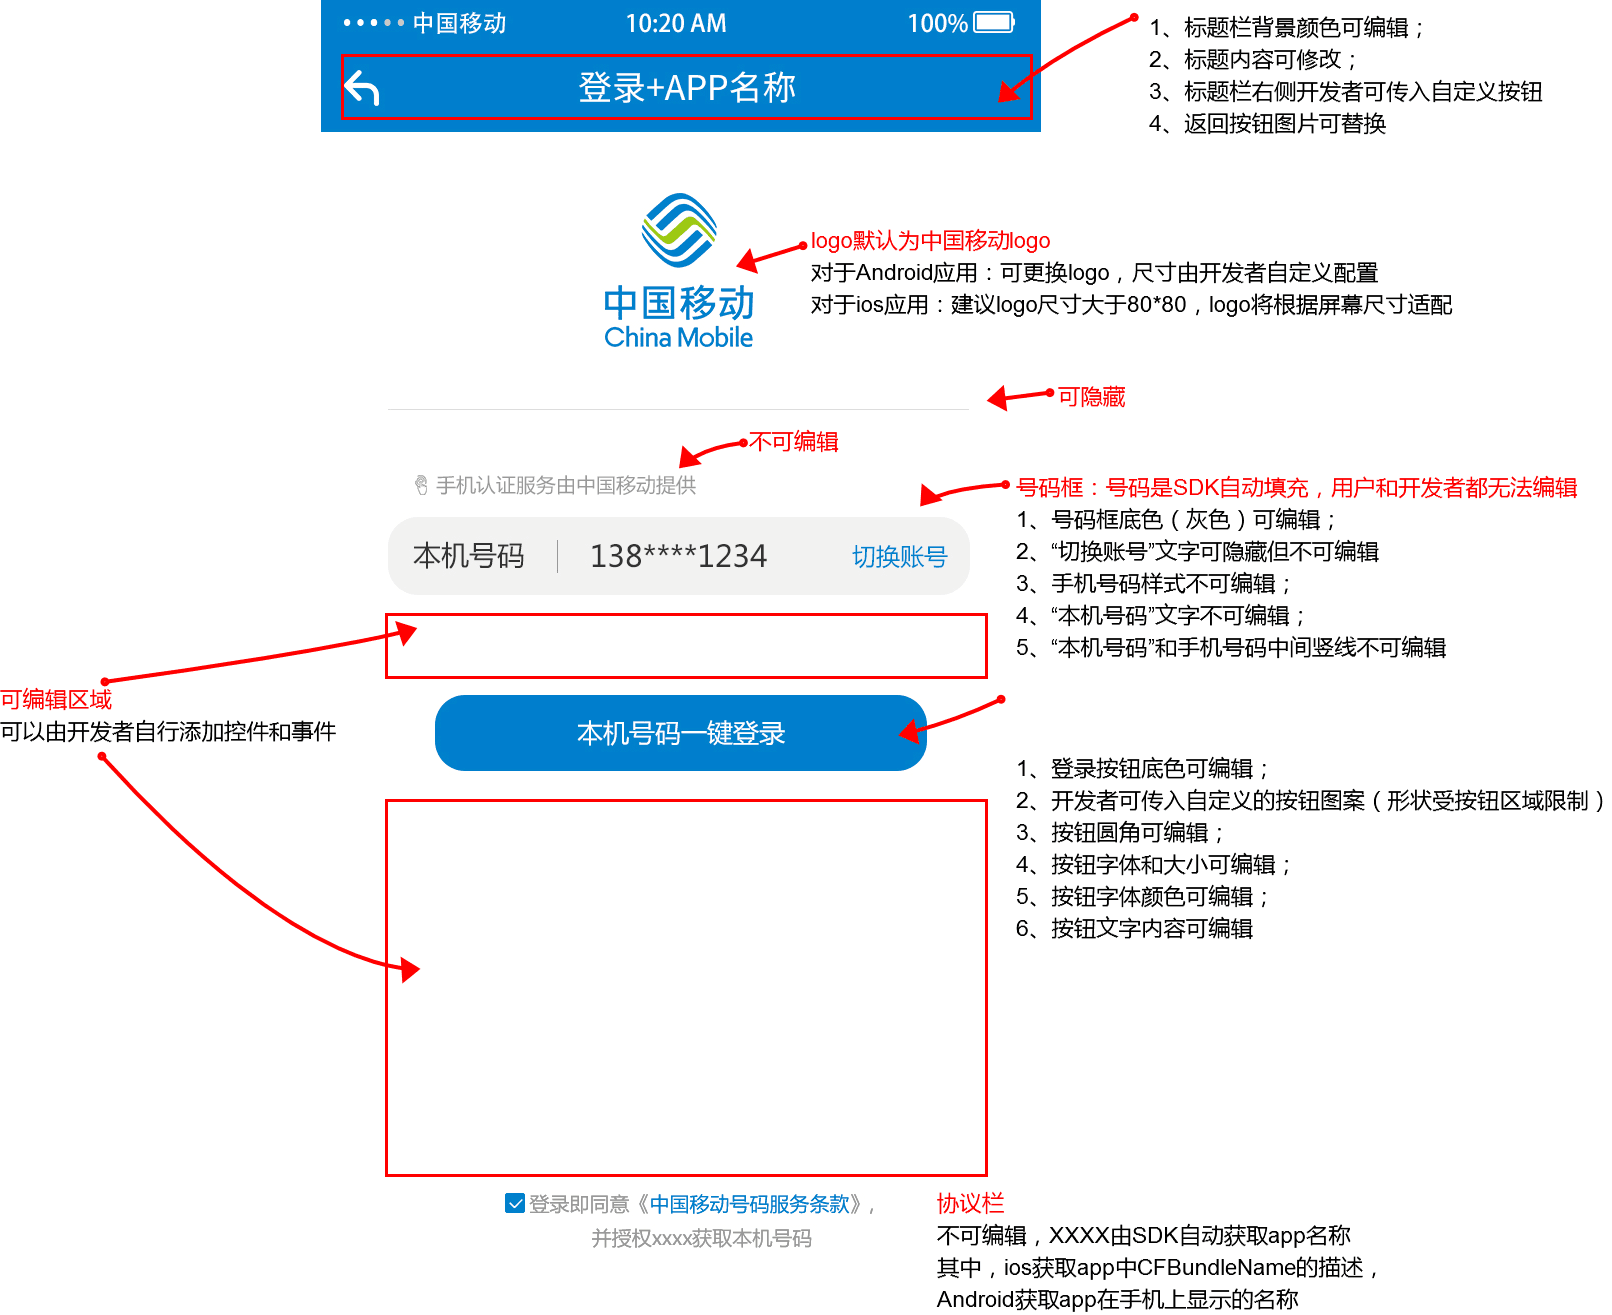
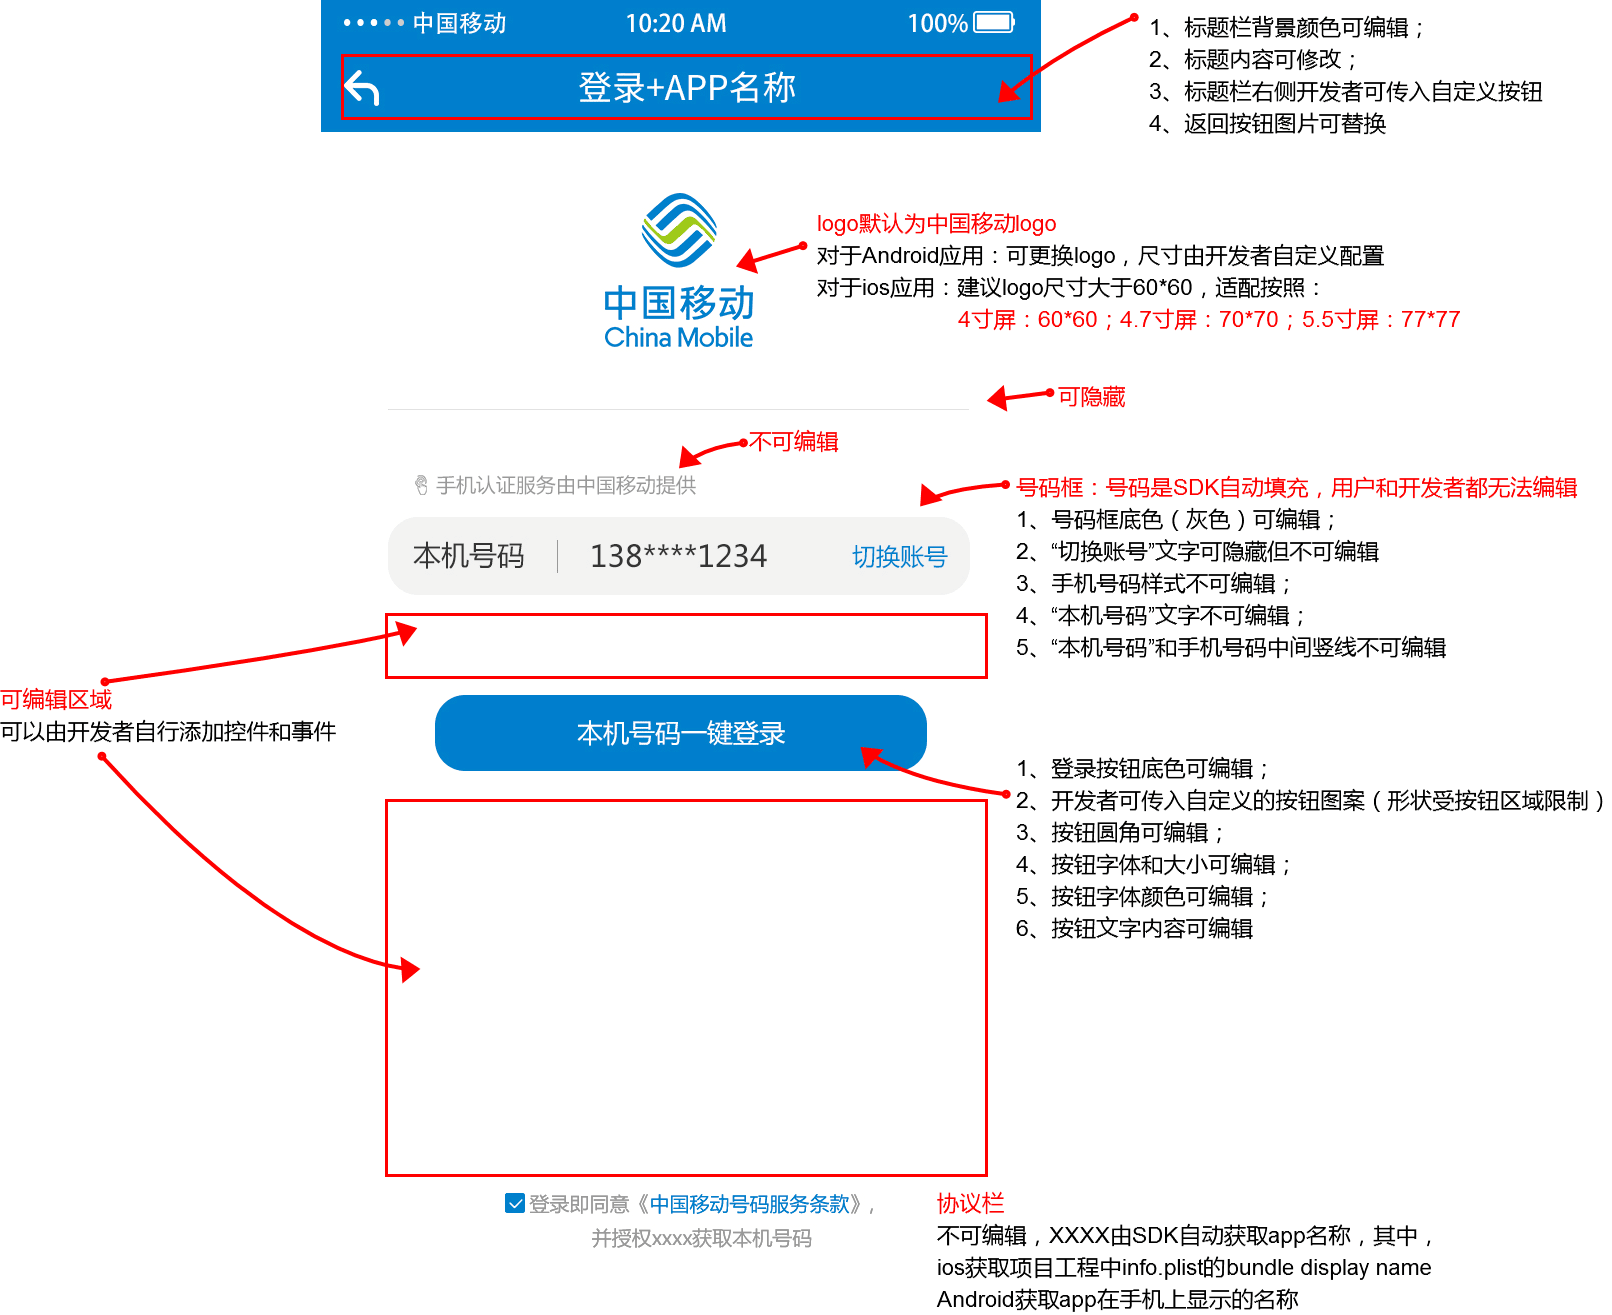
调整返回码，与代码统一 修改ui调整说明中ios获取应用名方法

diff --git a/4. 一键登录-iOS.md b/4. 一键登录-iOS.md
@@ -705,37 +705,24 @@ SDK在获取token过程中，用户手机必须在打开数据网络情况下才
 
 使用SDK时，SDK会在认证结束后将结果回调给开发者，其中结果为JSONObject对象，其中resultCode为结果响应码，103000代表成功，其他为失败。成功时在根据token字段取出身份标识。失败时根据resultCode定位失败原因。
 
-| 错误编号   | 返回码描述                                    |
-| ------ | ---------------------------------------- |
-| 103000 | 成功                                       |
-| 102101 | 无网络                                      |
-| 102102 | 网络异常                                     |
-| 102103 | 非移动网络                                    |
-| 102109 | 网络错误                                     |
-| 102201 | 自动登陆失败，用户选择自定义界面时，需要继续处理手动登陆流程，比如弹出登陆界面。 |
-| 102202 | APP签名验证不通过                               |
-| 102203 | 接口入参错误                                   |
-| 102204 | 正在进行GetToken动作，请稍后                       |
-| 102205 | 当前环境不支持指定的登陆方式                           |
-| 102206 | 选择用户登陆时，本地不存在指定的用户                       |
-| 102207 | 获取的中间件值错误                                |
-| 102208 | 参数错误                                     |
-| 102209 | 没有sim卡                                   |
-| 102210 | 不支持短信发送                                  |
-| 10299  | 其他错误                                     |
-| 102301 | 用户取消                                     |
-| 102302 | 没有进行初始化参数                                |
-| 102303 | 用户名为空                                    |
-| 102304 | 密码为空                                     |
-| 102305 | 验证码获得成功                                  |
-| 102306 | 验证码获得失败                                  |
-| 102307 | 用户名格式错误                                  |
-| 102308 | 用户名格式错误                                  |
-| 102309 | 验证码格式错误                                  |
-| 102310 | 用户名和验证码格式错误                              |
-| 102311 | 密码格式错误                                   |
-| 102312 | 用户名和密码格式错误                               |
-| 200002 | 手机未安装SIM卡                                |
+| 错误编号   | 返回码描述                       |
+| ------ | --------------------------- |
+| 103000 | 成功                          |
+| 102057 | 系统请求超时                      |
+| 102101 | 无网络                         |
+| 102102 | 网络异常，获取token时请求超时           |
+| 102109 | 网络错误，1. 欠费卡；2. wifi下关闭数据网络  |
+| 102121 | 用户取消登录                      |
+| 102208 | SDK请求参数错误                   |
+| 102302 | 没有进行初始化参数                   |
+| 102506 | 请求出错（buffer取号过程）            |
+| 103108 | 验证码错误                       |
+| 103125 | 手机号码格式错误                    |
+| 103126 | 手机号码不存在                     |
+| 103901 | 短信验证码下发次数到达上限（每用户每app每天10次） |
+| 103911 | 验证码错误超过3次                   |
+| 105001 | 联通取号失败                      |
+| 200002 | 手机未安装SIM卡                   |
 
 </br>
 
